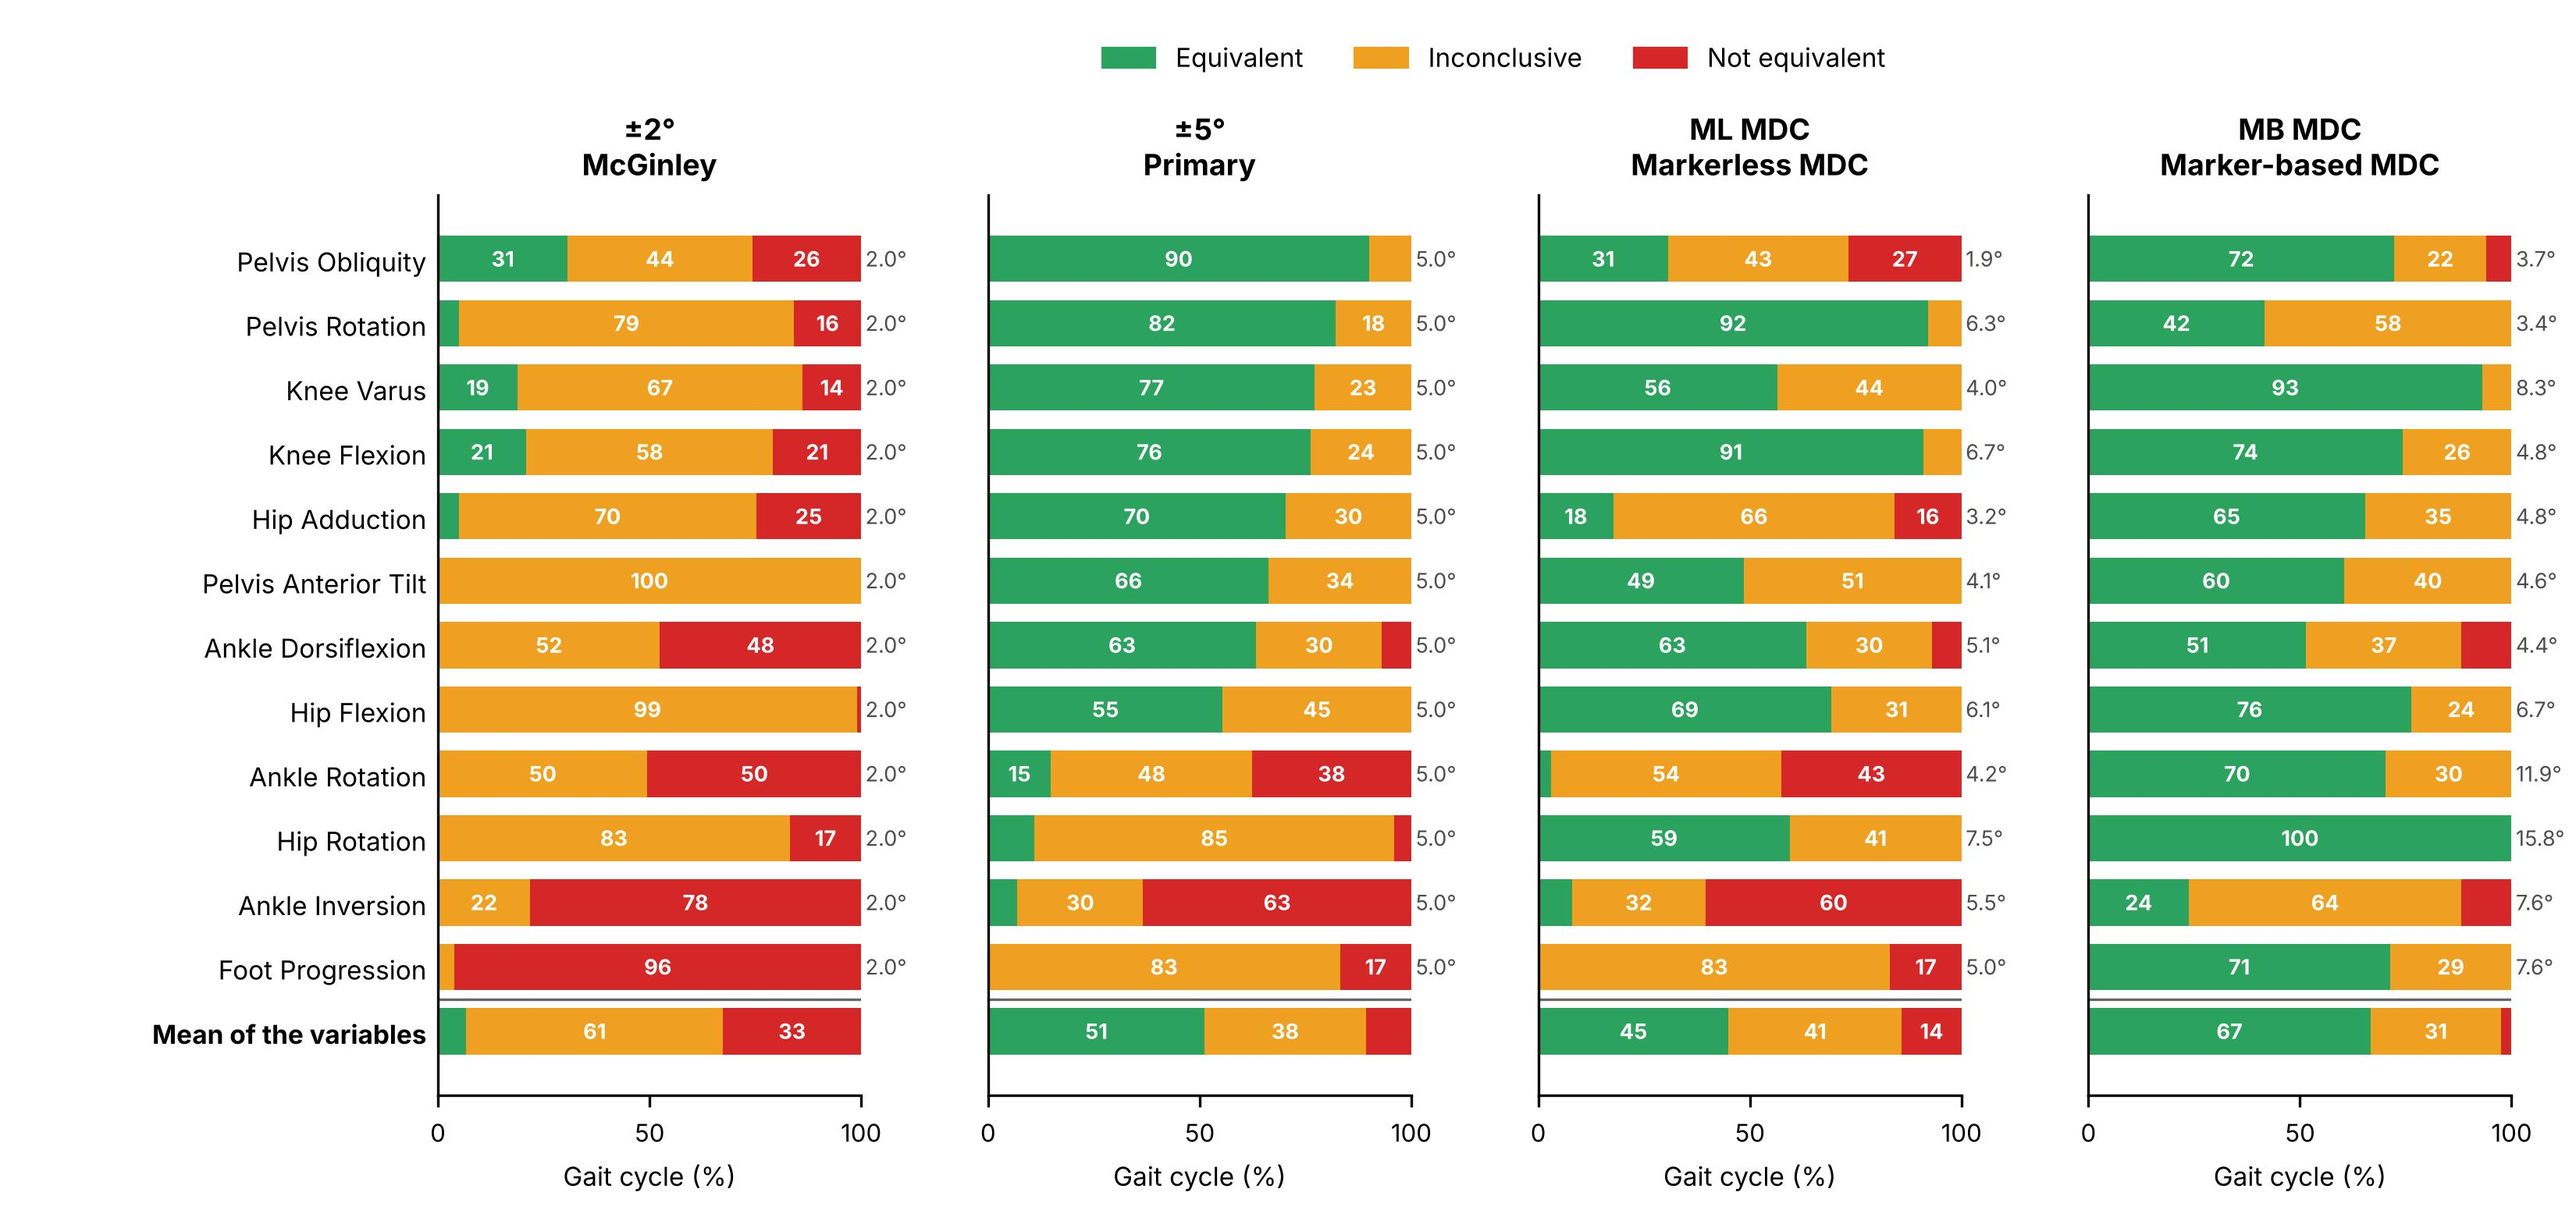
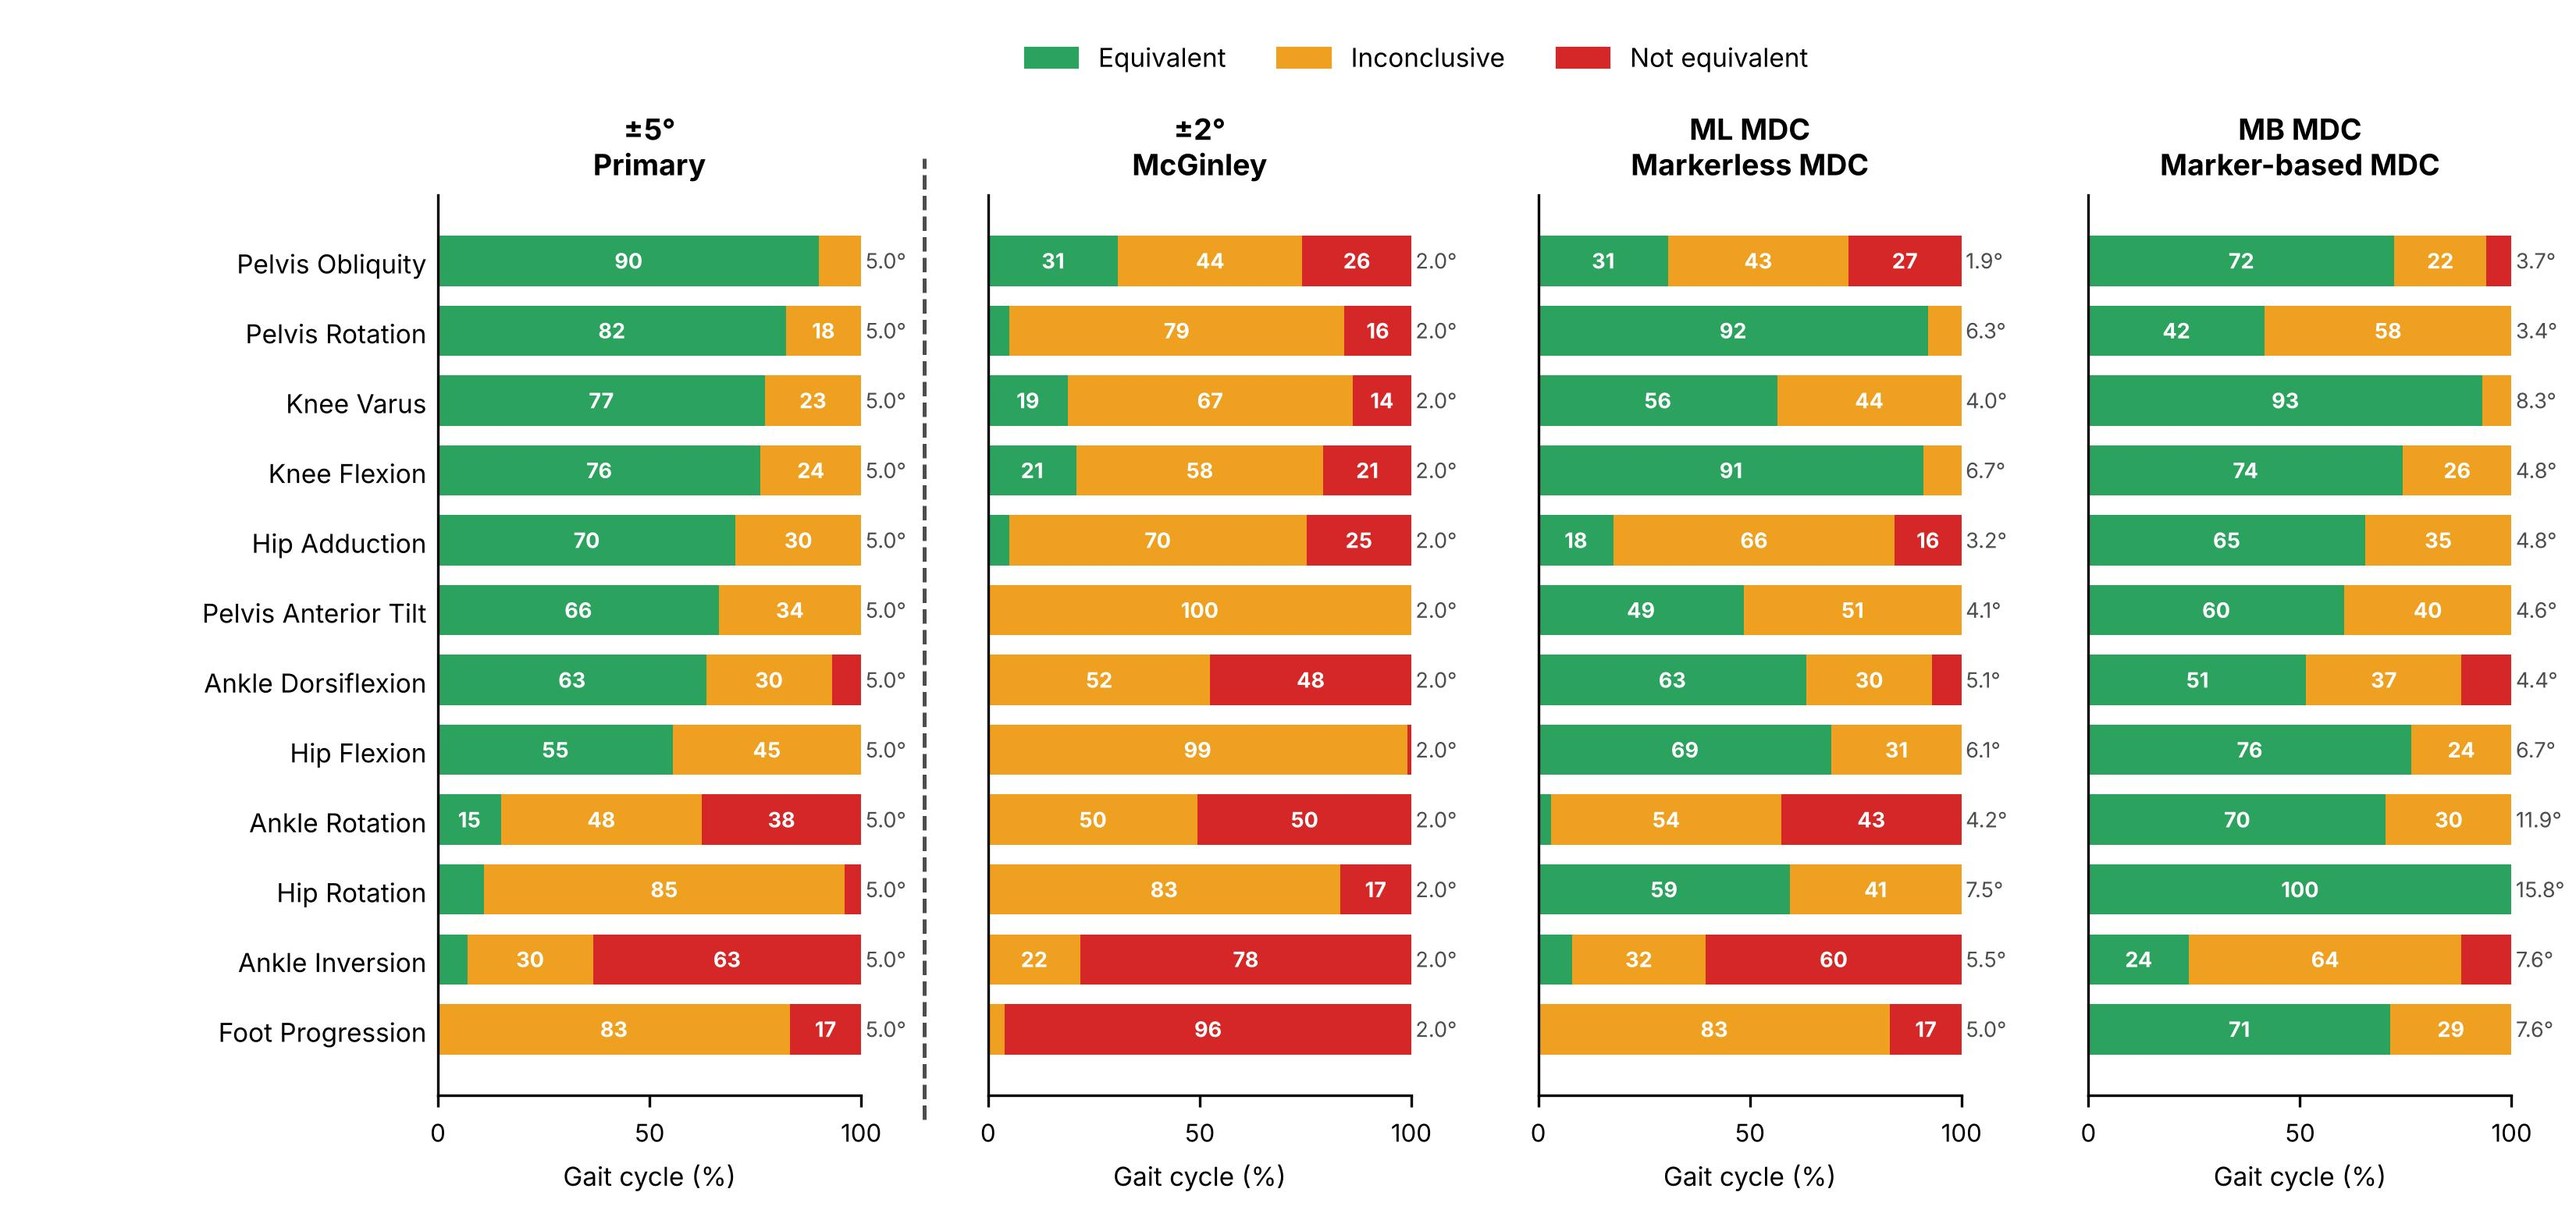
Bound sensitivity figure: ±5° first, separator line, drop mean row
Claude-Session: https://claude.ai/code/session_015w9XBhFVNXRPjuHceetm3n

diff --git a/python_analysis/10_bound_sensitivity.py b/python_analysis/10_bound_sensitivity.py
@@ -14,7 +14,7 @@ the bound, so it is computed once per variable and then judged against four alte
 Each node of the gait cycle is equivalent / inconclusive / not equivalent (same rule as the main analysis); results are the
 percentage of the 101 nodes.  The same outlier selection as the other analyses is used (``outlier_selection.csv``).
 
-Outputs: ``figures/bound_sensitivity.jpg`` (stacked bars, one panel per bound, variables sorted by % equivalent at +/-5 deg),
+Outputs: ``figures/bound_sensitivity.jpg`` (stacked bars, one panel per bound with +/-5 deg first and a dashed line before the alternatives, variables sorted by % equivalent at +/-5 deg; no mean row),
 ``results/table_bound_sensitivity.csv`` and ``.docx`` (bound in degrees and the three percentages for every scenario).
 
 Usage
@@ -29,6 +29,7 @@ import matplotlib
 matplotlib.use('Agg')
 import matplotlib.pyplot as plt
 import numpy as np
+from matplotlib.lines import Line2D
 from matplotlib.patches import Patch
 
 from common import (ANALYSED, EQUIVALENT, FIGURES_DIR, INCONCLUSIVE, NOT_EQUIVALENT, RESULTS_DIR, SELECTION_FILE,
@@ -37,7 +38,7 @@ from common import (ANALYSED, EQUIVALENT, FIGURES_DIR, INCONCLUSIVE, NOT_EQUIVAL
 # Horsak et al. (2026), healthy adults, inter-session MDC95 (degrees), read from the forest plot - in the order of ANALYSED.
 MB_MDC = dict(PelTilt=4.6, PelObl=3.7, PelRot=3.4, HipFlex=6.7, HipAdd=4.8, HipRot=15.8, KneeFlex=4.8, KneeVar=8.3,
               FootProg=7.6, AnkDF=4.4, AnkInv=7.6, AnkRot=11.9)
-SCENARIOS = [('±2°', 'McGinley'), ('±5°', 'Primary'), ('ML MDC', 'Markerless MDC'), ('MB MDC', 'Marker-based MDC')]
+SCENARIOS = [('±5°', 'Primary'), ('±2°', 'McGinley'), ('ML MDC', 'Markerless MDC'), ('MB MDC', 'Marker-based MDC')]
 COLOURS = {EQUIVALENT: '#2ca25f', INCONCLUSIVE: '#f0a020', NOT_EQUIVALENT: '#d62728'}   # as in the equivalence figure
 ORDER = (EQUIVALENT, INCONCLUSIVE, NOT_EQUIVALENT)
 
@@ -57,7 +58,7 @@ def main():
     for k, var in enumerate(ANALYSED):
         mb, ml, subs = participant_means(ds, var.code, sel)
         lo, hi, _ = paired_ci(mb, ml, args.alpha_ci)
-        bounds = [2.0, 5.0, float(ds.mdc_bounds[k]), MB_MDC[var.code]]
+        bounds = [5.0, 2.0, float(ds.mdc_bounds[k]), MB_MDC[var.code]]
         r = dict(code=var.code, variable=var.title, n=len(subs))
         for (lab, _), b in zip(SCENARIOS, bounds):
             cls = classify_equivalence(lo, hi, b)
@@ -125,10 +126,10 @@ def main():
     # ---- figure ----
     fig, axes = plt.subplots(1, 4, figsize=(11, 5.2), sharey=True)
     fig.subplots_adjust(left=0.17, right=0.975, top=0.84, bottom=0.1, wspace=0.3)
-    y = np.arange(len(rows) + 1)[::-1]
-    names = [r['variable'] for r in rows] + ['Mean of the variables']
+    y = np.arange(len(rows))[::-1]
+    names = [r['variable'] for r in rows]
     for ax, (lab, sub) in zip(axes, SCENARIOS):
-        for yi, r in zip(y, rows + [dict(variable='Mean', **mean)]):
+        for yi, r in zip(y, rows):
             left = 0
             for c in ORDER:
                 ax.barh(yi, r[lab][c], left=left, color=COLOURS[c], height=0.72, lw=0)
@@ -137,16 +138,16 @@ def main():
                 left += r[lab][c]
             if not np.isnan(r[lab]['bound']):
                 ax.text(101, yi, f"{r[lab]['bound']:.1f}°", ha='left', va='center', fontsize=6.5, color='0.3')
-        ax.axhline(0.5, color='0.4', lw=0.8)
         ax.set_xlim(0, 100); ax.set_xticks([0, 50, 100]); ax.tick_params(axis="y", length=0); ax.tick_params(labelsize=7.5)
         ax.set_title(f'{lab}\n{sub}', fontsize=9, fontweight='bold')
         ax.set_xlabel('Gait cycle (%)', fontsize=8)
         for sp in ('top', 'right'):
             ax.spines[sp].set_visible(False)
     axes[0].set_yticks(y); axes[0].set_yticklabels(names, fontsize=8)
-    axes[0].get_yticklabels()[-1].set_fontweight('bold')
+    x0 = 0.5 * (axes[0].get_position().x1 + axes[1].get_position().x0)      # line separating the primary bound from the alternatives
+    fig.add_artist(Line2D([x0, x0], [0.08, 0.87], color='0.3', lw=1.2, ls='--', transform=fig.transFigure))
     fig.legend(handles=[Patch(color=COLOURS[c], label=l) for c, l in zip(ORDER, ('Equivalent', 'Inconclusive', 'Not equivalent'))],
-               loc='upper center', ncol=3, frameon=False, fontsize=8, bbox_to_anchor=(0.58, 0.985))
+               loc='upper center', ncol=3, frameon=False, fontsize=8, bbox_to_anchor=(0.55, 0.985))
     args.out.parent.mkdir(parents=True, exist_ok=True)
     fig.savefig(args.out, dpi=args.dpi)
     print(f'Wrote {args.out}')
